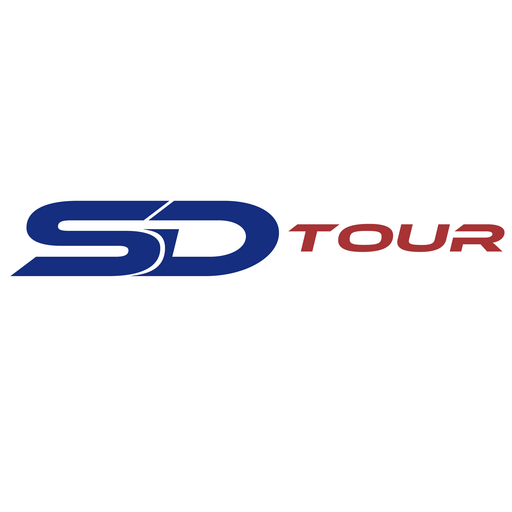
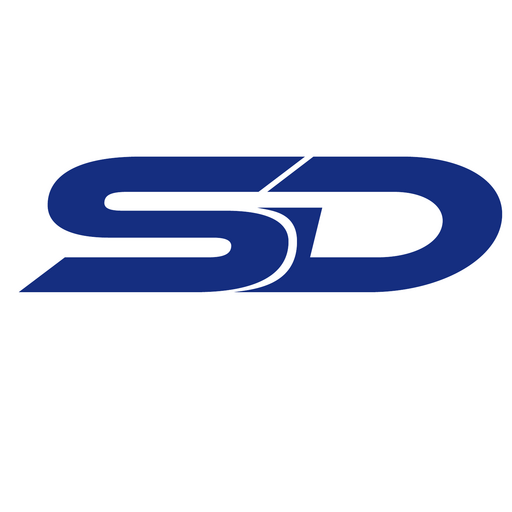
Add files via upload

Changed region(s): [[0.0312, 0.2812, 1.0, 0.5938]]

diff --git a/app/app/api/fuel-requests/route.ts b/app/app/api/fuel-requests/route.ts
@@ -7,6 +7,6 @@ const today=()=>{const parts=new Intl.DateTimeFormat('pt-BR',{timeZone:'America/
 async function notify(userIds:number[],title:string,message:string,href:string){const ids=[...new Set(userIds)].filter(Number.isSafeInteger);if(ids.length)await env.DB!.batch(ids.map(userId=>env.DB!.prepare('INSERT INTO app_notifications (user_id,title,message,href,created_at) VALUES (?,?,?,?,?)').bind(userId,title,message,href,new Date().toISOString())))}
 async function ensureAuditNames(){const columns=await env.DB!.prepare('PRAGMA table_info(fuel_requests)').all<{name:string}>();if(!columns.results.some(column=>column.name==='requested_by_name'))await env.DB!.prepare('ALTER TABLE fuel_requests ADD COLUMN requested_by_name text').run();if(!columns.results.some(column=>column.name==='authorized_by_name'))await env.DB!.prepare('ALTER TABLE fuel_requests ADD COLUMN authorized_by_name text').run();}
 
-export async function POST(req:Request){const access=await requireRole(req,'solicitante');if(!access.user)return Response.json({error:access.error},{status:403});try{await ensureAuditNames();const {requests}=await req.json() as {requests?:Item[]};if(!Array.isArray(requests)||requests.length===0)return Response.json({error:'Selecione ao menos uma viagem.'},{status:400});for(const item of requests)if(!Number.isSafeInteger(item.tripId)||!Number.isFinite(item.liters)||item.liters<=0||!Number.isSafeInteger(item.routeKm)||item.routeKm<0||!paymentOk(item.paymentStatus)||!Number.isSafeInteger(item.outstandingCents)||item.outstandingCents<0||(item.paymentStatus!=='total'&&item.outstandingCents<=0))return Response.json({error:'Confira litros, KM e pagamento de cada viagem.'},{status:400});const now=new Date().toISOString(),created:number[]=[];for(const item of requests){const trip=await env.DB!.prepare('SELECT departure_date AS departureDate FROM trips WHERE id=?').bind(item.tripId).first<{departureDate:string}>();if(!trip||trip.departureDate<=today())return Response.json({error:'Não é possível solicitar autorização para uma viagem cuja saída já ocorreu.'},{status:409});const existing=await env.DB!.prepare("SELECT id FROM fuel_requests WHERE trip_id=? AND status='pending' LIMIT 1").bind(item.tripId).first();if(existing)return Response.json({error:'Esta viagem já possui um pedido pendente de autorização.'},{status:409});const row=await env.DB!.prepare("INSERT INTO fuel_requests (trip_id,requested_by,requested_by_name,liters,route_km,payment_status,outstanding_cents,status,created_at) VALUES (?,?,?,?,?,?,?,'pending',?) RETURNING id").bind(item.tripId,access.user.bootstrap?null:access.user.id,access.user.name,item.liters,item.routeKm,item.paymentStatus,item.outstandingCents,now).first<{id:number}>();if(row)created.push(row.id);const associated=await env.DB!.prepare('SELECT user_id AS id FROM trip_users WHERE trip_id=?').bind(item.tripId).all<{id:number}>();const management=await env.DB!.prepare("SELECT id FROM app_users WHERE active=1 AND group_name='gerencia'").all<{id:number}>();const authorizers=await env.DB!.prepare("SELECT id FROM app_users WHERE active=1 AND (roles LIKE '%\"autorizador\"%' OR roles LIKE '%\"admin\"%')").all<{id:number}>();await notify([...associated.results.map(x=>x.id),...management.results.map(x=>x.id),...authorizers.results.map(x=>x.id)],'Novo pedido de abastecimento',`Pedido feito por ${access.user.name} e pendente de autorização.`,`/autorizacoes?pedido=${row?.id}`)}return Response.json({ids:created,requestedBy:access.user.name})}catch{return Response.json({error:'Não foi possível criar o pedido de abastecimento.'},{status:503})}}
+export async function POST(req:Request){const access=await requireRole(req,'solicitante');if(!access.user)return Response.json({error:access.error},{status:403});try{await ensureAuditNames();const {requests}=await req.json() as {requests?:Item[]};if(!Array.isArray(requests)||requests.length===0)return Response.json({error:'Selecione ao menos uma viagem.'},{status:400});for(const item of requests)if(!Number.isSafeInteger(item.tripId)||!Number.isFinite(item.liters)||item.liters<=0||!Number.isSafeInteger(item.routeKm)||item.routeKm<0||!paymentOk(item.paymentStatus)||!Number.isSafeInteger(item.outstandingCents)||item.outstandingCents<0||(item.paymentStatus!=='total'&&item.outstandingCents<=0))return Response.json({error:'Confira litros, KM e pagamento de cada viagem.'},{status:400});const now=new Date().toISOString(),created:number[]=[];for(const item of requests){const trip=await env.DB!.prepare('SELECT departure_date AS departureDate FROM trips WHERE id=?').bind(item.tripId).first<{departureDate:string}>();if(!trip||trip.departureDate<today())return Response.json({error:'Não é possível solicitar autorização para uma viagem cuja saída já ocorreu.'},{status:409});const existing=await env.DB!.prepare("SELECT id FROM fuel_requests WHERE trip_id=? AND status='pending' LIMIT 1").bind(item.tripId).first();if(existing)return Response.json({error:'Esta viagem já possui um pedido pendente de autorização.'},{status:409});const row=await env.DB!.prepare("INSERT INTO fuel_requests (trip_id,requested_by,requested_by_name,liters,route_km,payment_status,outstanding_cents,status,created_at) VALUES (?,?,?,?,?,?,?,'pending',?) RETURNING id").bind(item.tripId,access.user.bootstrap?null:access.user.id,access.user.name,item.liters,item.routeKm,item.paymentStatus,item.outstandingCents,now).first<{id:number}>();if(row)created.push(row.id);const associated=await env.DB!.prepare('SELECT user_id AS id FROM trip_users WHERE trip_id=?').bind(item.tripId).all<{id:number}>();const management=await env.DB!.prepare("SELECT id FROM app_users WHERE active=1 AND group_name='gerencia'").all<{id:number}>();const authorizers=await env.DB!.prepare("SELECT id FROM app_users WHERE active=1 AND (roles LIKE '%\"autorizador\"%' OR roles LIKE '%\"admin\"%')").all<{id:number}>();await notify([...associated.results.map(x=>x.id),...management.results.map(x=>x.id),...authorizers.results.map(x=>x.id)],'Novo pedido de abastecimento',`Pedido feito por ${access.user.name} e pendente de autorização.`,`/autorizacoes?pedido=${row?.id}`)}return Response.json({ids:created,requestedBy:access.user.name})}catch{return Response.json({error:'Não foi possível criar o pedido de abastecimento.'},{status:503})}}
 
-export async function GET(req:Request){const access=await requireRole(req,'solicitante','autorizador','avisado');if(!access.user)return Response.json({error:access.error},{status:403});await ensureAuditNames();const params=new URL(req.url).searchParams,requestedStatus=params.get('status'),status=requestedStatus==='pending'||requestedStatus==='authorized'?requestedStatus:null,requestId=Number(params.get('pedido')),byId=Number.isSafeInteger(requestId)&&requestId>0;const admin=access.user.roles.includes('admin'),authorizer=access.user.roles.includes('autorizador'),management=access.user.groupName==='gerencia',userId=access.user.id;let where=' WHERE COALESCE(t.departure_date,t.travel_date)>?',binds:unknown[]=[today()];if(byId){where+=' AND f.id=?';binds.push(requestId)}else if(status){where+=' AND f.status=?';binds.push(status)}if(!admin&&!authorizer&&!management){where+=" AND EXISTS (SELECT 1 FROM trip_users tu WHERE tu.trip_id=f.trip_id AND tu.user_id=?)";binds.push(userId)}const q=`SELECT f.id,f.trip_id AS tripId,f.liters,f.route_km AS routeKm,f.payment_status AS paymentStatus,f.outstanding_cents AS outstandingCents,f.status,f.created_at AS createdAt,f.authorized_at AS authorizedAt,v.label AS vehicleLabel,t.route,t.departure_date AS departureDate,t.arrival_date AS arrivalDate,COALESCE(t.total_value_cents,0) AS totalValueCents,COALESCE(f.requested_by_name,u.name,'Não informado') AS requestedBy,COALESCE(f.authorized_by_name,a.name,CASE WHEN f.status='authorized' THEN 'George Mendonça' END,'Não informado') AS authorizedBy FROM fuel_requests f JOIN trips t ON t.id=f.trip_id JOIN vehicles v ON v.id=t.vehicle_id LEFT JOIN app_users u ON u.id=f.requested_by LEFT JOIN app_users a ON a.id=f.authorized_by${where} ORDER BY CASE f.status WHEN 'pending' THEN 0 ELSE 1 END,f.created_at DESC`;const rows=await env.DB!.prepare(q).bind(...binds).all();return Response.json({requests:(rows.results||[]).map((item:any)=>admin?item:{...item,totalValueCents:null,paymentStatus:null,outstandingCents:null}),canViewFinancial:admin})}
+export async function GET(req:Request){const access=await requireRole(req,'solicitante','autorizador','avisado');if(!access.user)return Response.json({error:access.error},{status:403});await ensureAuditNames();const params=new URL(req.url).searchParams,requestedStatus=params.get('status'),status=requestedStatus==='pending'||requestedStatus==='authorized'?requestedStatus:null,requestId=Number(params.get('pedido')),byId=Number.isSafeInteger(requestId)&&requestId>0;const admin=access.user.roles.includes('admin'),authorizer=access.user.roles.includes('autorizador'),management=access.user.groupName==='gerencia',userId=access.user.id;let where=' WHERE COALESCE(t.departure_date,t.travel_date)>=?',binds:unknown[]=[today()];if(byId){where+=' AND f.id=?';binds.push(requestId)}else if(status){where+=' AND f.status=?';binds.push(status)}if(!admin&&!authorizer&&!management){where+=" AND EXISTS (SELECT 1 FROM trip_users tu WHERE tu.trip_id=f.trip_id AND tu.user_id=?)";binds.push(userId)}const q=`SELECT f.id,f.trip_id AS tripId,f.liters,f.route_km AS routeKm,f.payment_status AS paymentStatus,f.outstanding_cents AS outstandingCents,f.status,f.created_at AS createdAt,f.authorized_at AS authorizedAt,v.label AS vehicleLabel,t.route,t.departure_date AS departureDate,t.arrival_date AS arrivalDate,COALESCE(t.total_value_cents,0) AS totalValueCents,COALESCE(f.requested_by_name,u.name,'Não informado') AS requestedBy,COALESCE(f.authorized_by_name,a.name,CASE WHEN f.status='authorized' THEN 'George Mendonça' END,'Não informado') AS authorizedBy FROM fuel_requests f JOIN trips t ON t.id=f.trip_id JOIN vehicles v ON v.id=t.vehicle_id LEFT JOIN app_users u ON u.id=f.requested_by LEFT JOIN app_users a ON a.id=f.authorized_by${where} ORDER BY CASE f.status WHEN 'pending' THEN 0 ELSE 1 END,f.created_at DESC`;const rows=await env.DB!.prepare(q).bind(...binds).all();return Response.json({requests:(rows.results||[]).map((item:any)=>admin?item:{...item,totalValueCents:null,paymentStatus:null,outstandingCents:null}),canViewFinancial:admin})}

diff --git a/app/app/avisos/page.tsx b/app/app/avisos/page.tsx
@@ -6,4 +6,4 @@ type Item={notice:Notice;request?:Request};
 const requestId=(href:string)=>{const value=new URLSearchParams(href.split('?')[1]||'').get('pedido');return value?Number(value):NaN};
 const today=()=>{const parts=new Intl.DateTimeFormat('pt-BR',{timeZone:'America/Bahia',year:'numeric',month:'2-digit',day:'2-digit'}).formatToParts(new Date());const value=(type:string)=>parts.find(part=>part.type===type)?.value||'';return `${value('year')}-${value('month')}-${value('day')}`};
 const when=(value:string)=>new Intl.DateTimeFormat('pt-BR',{dateStyle:'short',timeStyle:'short',timeZone:'America/Bahia'}).format(new Date(value));
-export default function Avisos(){const [items,setItems]=useState<Item[]>([]),[message,setMessage]=useState('Carregando avisos...');useEffect(()=>{void Promise.all([fetch('/api/notifications',{cache:'no-store'}).then(r=>r.json()),fetch('/api/fuel-requests',{cache:'no-store'}).then(r=>r.json())]).then(([notices,requests])=>{const byId=new Map<number,Request>((requests.requests||[]).map((request:Request)=>[request.id,request])),latest=new Map<string,Item>();for(const notice of notices.notifications||[]){const id=requestId(notice.href),request=byId.get(id);if(Number.isInteger(id)&&id>0&&!request)continue;if(request&&request.departureDate<=today())continue;const key=request?`request:${request.id}`:`notice:${notice.id}`;if(!latest.has(key))latest.set(key,{notice,request})}setItems([...latest.values()]);setMessage('')}).catch(()=>setMessage('Não foi possível carregar os avisos.'))},[]);async function open(item:Item){await fetch('/api/notifications',{method:'PUT',headers:{'Content-Type':'application/json'},body:JSON.stringify({id:item.notice.id})});window.location.assign(item.notice.href)}return <main className="min-h-screen bg-slate-50 p-5"><div className="mx-auto max-w-xl"><button onClick={()=>window.location.assign('/')} className="mb-5 h-12 rounded-xl border px-5 text-lg font-bold">Página inicial</button><section className="rounded-3xl bg-white p-6 shadow"><h1 className="text-3xl font-bold">Meus avisos</h1><p className="mt-2 text-lg text-slate-600">Somente viagens futuras com pedido de abastecimento aparecem aqui.</p>{!message&&items.length===0?<p className="mt-5 rounded-xl bg-slate-50 p-4 text-lg">Nenhum aviso de viagem futura no momento.</p>:<div className="mt-5 space-y-4">{items.map(({notice,request})=>{const pending=request?.status==='pending',authorized=request?.status==='authorized';return <button key={request?`request-${request.id}`:notice.id} onClick={()=>void open({notice,request})} className={`w-full overflow-hidden rounded-2xl border-2 text-left shadow-sm transition active:scale-[0.99] ${pending?'border-red-300 bg-white':authorized?'border-green-700 bg-[#178045] text-white':'border-[#096a9b] bg-white'}`}><div className="p-4"><div className="flex items-start gap-3">{authorized&&<span className="grid h-14 w-14 shrink-0 place-items-center rounded-full bg-white text-4xl font-black text-[#178045]">✓</span>}<div className="min-w-0"><p className="text-xl font-extrabold">{authorized?'Abastecimento liberado':notice.title}</p>{request?<><p className="mt-2 text-lg font-bold">{request.vehicleLabel} · {request.route}</p><p className="mt-1 text-base">Solicitado por {request.requestedBy} em {when(request.createdAt)}</p>{authorized&&<p className="mt-1 text-base">Autorizado por {request.authorizedBy} em {request.authorizedAt?when(request.authorizedAt):'horário não informado'}</p>}</>:<p className="mt-1 text-lg">{notice.message}</p>}</div></div></div>{pending&&<div className="bg-[#b42318] px-4 py-4 text-white"><p className="text-xl font-extrabold">PENDENTE DE AUTORIZAÇÃO</p><p className="mt-1 text-base font-semibold">Aguardando autorização. Toque para acompanhar.</p></div>}{authorized&&<div className="border-t border-white/30 bg-[#178045] px-4 py-4 text-white"><p className="text-xl font-extrabold">✓ ABASTECIMENTO LIBERADO</p><p className="mt-1 text-base font-semibold">A autorização foi concluída.</p></div>}{!request&&<p className="border-t px-4 py-3 text-sm text-slate-600">{when(notice.createdAt)}</p>}</button>})}</div>}</section>{message&&<p role="status" className="mt-5 rounded-xl bg-sky-50 p-4 text-lg">{message}</p>}</div></main>}
+export default function Avisos(){const [items,setItems]=useState<Item[]>([]),[message,setMessage]=useState('Carregando avisos...');useEffect(()=>{void Promise.all([fetch('/api/notifications',{cache:'no-store'}).then(r=>r.json()),fetch('/api/fuel-requests',{cache:'no-store'}).then(r=>r.json())]).then(([notices,requests])=>{const byId=new Map<number,Request>((requests.requests||[]).map((request:Request)=>[request.id,request])),latest=new Map<string,Item>();for(const notice of notices.notifications||[]){const id=requestId(notice.href),request=byId.get(id);if(Number.isInteger(id)&&id>0&&!request)continue;if(request&&request.departureDate<today())continue;const key=request?`request:${request.id}`:`notice:${notice.id}`;if(!latest.has(key))latest.set(key,{notice,request})}setItems([...latest.values()]);setMessage('')}).catch(()=>setMessage('Não foi possível carregar os avisos.'))},[]);async function open(item:Item){await fetch('/api/notifications',{method:'PUT',headers:{'Content-Type':'application/json'},body:JSON.stringify({id:item.notice.id})});window.location.assign(item.notice.href)}return <main className="min-h-screen bg-slate-50 p-5"><div className="mx-auto max-w-xl"><button onClick={()=>window.location.assign('/')} className="mb-5 h-12 rounded-xl border px-5 text-lg font-bold">Página inicial</button><section className="rounded-3xl bg-white p-6 shadow"><h1 className="text-3xl font-bold">Meus avisos</h1><p className="mt-2 text-lg text-slate-600">Viagens cuja saída ainda não ocorreu aparecem aqui.</p>{!message&&items.length===0?<p className="mt-5 rounded-xl bg-slate-50 p-4 text-lg">Nenhum aviso de viagem válida no momento.</p>:<div className="mt-5 space-y-4">{items.map(({notice,request})=>{const pending=request?.status==='pending',authorized=request?.status==='authorized';return <button key={request?`request-${request.id}`:notice.id} onClick={()=>void open({notice,request})} className={`w-full overflow-hidden rounded-2xl border-2 text-left shadow-sm transition active:scale-[0.99] ${pending?'border-red-300 bg-white':authorized?'border-green-700 bg-[#178045] text-white':'border-[#096a9b] bg-white'}`}><div className="p-4"><div className="flex items-start gap-3">{authorized&&<span className="grid h-14 w-14 shrink-0 place-items-center rounded-full bg-white text-4xl font-black text-[#178045]">✓</span>}<div className="min-w-0"><p className="text-xl font-extrabold">{authorized?'Abastecimento liberado':notice.title}</p>{request?<><p className="mt-2 text-lg font-bold">{request.vehicleLabel} · {request.route}</p><p className="mt-1 text-base">Solicitado por {request.requestedBy} em {when(request.createdAt)}</p>{authorized&&<p className="mt-1 text-base">Autorizado por {request.authorizedBy} em {request.authorizedAt?when(request.authorizedAt):'horário não informado'}</p>}</>:<p className="mt-1 text-lg">{notice.message}</p>}</div></div></div>{pending&&<div className="bg-[#b42318] px-4 py-4 text-white"><p className="text-xl font-extrabold">PENDENTE DE AUTORIZAÇÃO</p><p className="mt-1 text-base font-semibold">Aguardando autorização. Toque para acompanhar.</p></div>}{authorized&&<div className="border-t border-white/30 bg-[#178045] px-4 py-4 text-white"><p className="text-xl font-extrabold">✓ ABASTECIMENTO LIBERADO</p><p className="mt-1 text-base font-semibold">A autorização foi concluída.</p></div>}{!request&&<p className="border-t px-4 py-3 text-sm text-slate-600">{when(notice.createdAt)}</p>}</button>})}</div>}</section>{message&&<p role="status" className="mt-5 rounded-xl bg-sky-50 p-4 text-lg">{message}</p>}</div></main>}

diff --git a/app/app/page.tsx b/app/app/page.tsx
@@ -44,7 +44,7 @@ export default function Home({launch=false}:{launch?:boolean}){
  async function turnOff(){await fetch('/api/admin-session',{method:'DELETE'});setActiveUser(null);setLoginPassword('');setPendingAlert(null)}
  if(!sessionChecked)return <main className="grid min-h-screen place-items-center bg-[#f3f6f9] text-lg">Abrindo Controle de Abastecimento...</main>;
  if(!activeUser)return <main className="grid min-h-screen place-items-center bg-[#f3f6f9] p-5"><section className="w-full max-w-md rounded-3xl bg-white p-7 shadow"><div className="flex items-center gap-3"><img src="/icon.png" alt="SD Tour" className="h-16 w-16 rounded-2xl"/><div><p className="font-bold text-[#b3262b]">SD TOUR</p><h1 className="text-3xl font-extrabold">Acessar app</h1></div></div><p className="mt-4 text-lg text-slate-600">Informe sua senha para continuar.</p><form onSubmit={appLogin} className="mt-6 space-y-4"><input autoFocus autoCapitalize="none" value={loginUser} onChange={event=>setLoginUser(event.target.value)} className="h-16 w-full rounded-xl border p-4 text-xl" placeholder="Usuário"/><input type="password" value={loginPassword} onChange={event=>setLoginPassword(event.target.value)} className="h-16 w-full rounded-xl border p-4 text-xl" placeholder="Senha"/><Button className="h-14 w-full bg-[#096a9b] text-xl font-bold text-white">Entrar</Button></form>{loginError&&<p role="status" className="mt-4 rounded-xl bg-red-50 p-3 text-lg text-red-800">{loginError}</p>}</section></main>;
- if(!launch)return <main className="min-h-screen bg-[#f3f6f9] px-4 py-6 sm:py-10"><div className="mx-auto max-w-xl"><header className="rounded-3xl bg-[#b3262b] p-6 text-white shadow"><div className="flex items-center gap-3"><img src="/icon.png" alt="SD Tour" className="h-16 w-16 rounded-2xl bg-white p-1"/><div><p className="text-base font-bold uppercase tracking-[.12em]">SD Tour</p><h1 className="text-3xl font-extrabold">Olá, {activeUser.name}</h1></div></div><p className="mt-4 text-lg font-medium text-white/90">Controle de abastecimento</p></header>{pendingAlert&&<button type="button" onClick={()=>window.location.assign(pendingAlert.href)} className={`mt-5 w-full rounded-2xl p-5 text-left shadow-lg ${pendingAlert.authorizer?'bg-[#b3262b] text-white':'border-2 border-red-300 bg-red-50 text-[#7f1d1d]'}`}><p className="text-xl font-extrabold">{pendingAlert.authorizer?'PEDIDO PENDENTE DE AUTORIZAÇÃO':'AVISO DE ABASTECIMENTO PENDENTE'}</p><p className="mt-1 text-lg font-bold">{pendingAlert.count} pedido(s). Toque para acompanhar.</p></button>}<Button type="button" onClick={()=>window.location.assign('/lancar-abastecimento')} className="mt-7 h-20 w-full bg-[#096a9b] text-2xl font-extrabold text-white shadow-lg">⛽ LANÇAR ABASTECIMENTO</Button><div className="mt-5 grid grid-cols-2 gap-3"><Button type="button" onClick={()=>window.location.assign('/meus-abastecimentos')} variant="outline" className="min-h-20 h-auto border-[#096a9b] px-3 py-3 text-base font-bold text-[#102b43] sm:text-lg">Meus abastecimentos</Button><Button type="button" onClick={()=>window.location.assign('/avisos')} variant="outline" className="min-h-20 h-auto border-[#096a9b] px-3 py-3 text-base font-bold text-[#102b43] sm:text-lg">Meus avisos</Button></div><div className="mt-5 grid gap-3">{activeUser.roles.includes('admin')&&<a href="/admin?force=1" className="min-h-14 rounded-xl border-2 border-[#096a9b] bg-white px-4 py-3 text-center text-lg font-bold text-[#096a9b]">Área Adm</a>}<Button type="button" onClick={()=>void turnOff()} variant="outline" className="min-h-14 border-slate-500 text-lg font-bold text-slate-700">Desligar</Button></div></div></main>;
+ if(!launch)return <main className="min-h-screen bg-[#f3f6f9] px-4 py-6 sm:py-10"><div className="mx-auto max-w-xl"><header className="rounded-3xl bg-[#b3262b] p-6 text-white shadow"><div className="flex items-center gap-3"><img src="/icon.png" alt="SD Tour" className="h-16 w-16 rounded-2xl bg-white p-1"/><div><p className="text-base font-bold uppercase tracking-[.12em]">SD Tour</p><h1 className="text-3xl font-extrabold">Olá, {activeUser.name}</h1></div></div><p className="mt-4 text-lg font-medium text-white/90">Controle de abastecimento</p></header>{pendingAlert&&<button type="button" onClick={()=>window.location.assign(pendingAlert.href)} className={`mt-5 w-full rounded-2xl p-5 text-left shadow-lg ${pendingAlert.authorizer?'bg-[#b3262b] text-white':'border-2 border-red-300 bg-red-50 text-[#7f1d1d]'}`}><p className="text-xl font-extrabold">{pendingAlert.authorizer?'PEDIDO PENDENTE DE AUTORIZAÇÃO':'AVISO DE ABASTECIMENTO PENDENTE'}</p><p className="mt-1 text-lg font-bold">{pendingAlert.count} pedido(s). Toque para acompanhar.</p></button>}<Button type="button" onClick={()=>window.location.assign('/lancar-abastecimento')} className="mt-7 h-20 w-full bg-[#096a9b] text-2xl font-extrabold text-white shadow-lg">⛽ LANÇAR ABASTECIMENTO</Button><div className="mt-5 grid grid-cols-2 gap-3"><Button type="button" onClick={()=>window.location.assign('/meus-abastecimentos')} variant="outline" className="min-h-20 h-auto border-[#096a9b] px-3 py-3 text-base font-bold text-[#102b43] sm:text-lg">Meus abastecimentos</Button><Button type="button" onClick={()=>window.location.assign('/avisos')} className="min-h-20 h-auto bg-green-600 px-3 py-3 text-base font-bold text-white hover:bg-green-700 sm:text-lg">Visualizar liberações</Button></div><div className="mt-5 grid gap-3">{activeUser.roles.includes('admin')&&<a href="/admin?force=1" className="min-h-14 rounded-xl border-2 border-[#096a9b] bg-white px-4 py-3 text-center text-lg font-bold text-[#096a9b]">Área Adm</a>}<Button type="button" onClick={()=>void turnOff()} variant="outline" className="min-h-14 border-slate-500 text-lg font-bold text-slate-700">Desligar</Button></div></div></main>;
  if(saved)return <main className="grid min-h-screen place-items-center bg-[#f3f6f9] px-5 py-10"><section className="w-full max-w-xl rounded-3xl border border-[#bfe0cc] bg-white p-8 text-center shadow-[0_12px_35px_rgba(22,64,91,.08)] sm:p-12"><p className="text-5xl text-[#178045]">✓</p><h1 className="mt-5 text-4xl font-extrabold leading-tight text-[#178045] sm:text-5xl">{savedOffline?'Abastecimento salvo no aparelho':completion==='editado'?'Edição concluída':'Abastecimento lançado'}</h1><p className="mt-4 text-xl text-[#526979]">{savedOffline?'Sem internet no momento. O lançamento será enviado ao banco quando o app for aberto com conexão.':completion==='editado'?'As alterações foram salvas com sucesso.':'O registro foi salvo com sucesso.'}</p><div className="mt-10 grid gap-4"><Button type="button" onClick={()=>{setSaved(false);void showLast30()}} className="h-16 bg-[#178045] text-xl font-bold text-white">Listar meus abastecimentos</Button><Button type="button" onClick={leave} variant="outline" className="h-16 border-[#526979] text-xl font-bold text-[#102b43]">Sair</Button></div></section></main>;
  const heading=['Qual é o veículo?','Quem abasteceu?','Qual é a quilometragem do carro?','O que foi comprado?','Qual foi a quantidade?','Qual foi o valor?','Confirme o abastecimento'][step-1];
  const showBack=step!==1&&step!==7; const showNext=step===1||step===2||step===3||step===4||step===5;

diff --git a/app/app/solicitar-abastecimento/page.tsx b/app/app/solicitar-abastecimento/page.tsx
@@ -2,4 +2,5 @@
 import {useEffect,useState} from 'react';
 type Trip={id:number;vehicleLabel:string;departureDate:string;arrivalDate:string;route:string};
 const formatDate=(date:string)=>date.split('-').reverse().join('/');
-export default function SolicitarAbastecimento(){const [trips,setTrips]=useState<Trip[]>([]),[message,setMessage]=useState('Carregando viagens...');useEffect(()=>{void (async()=>{try{const response=await fetch('/api/trips?available=1',{cache:'no-store'}),data:any=await response.json();if(!response.ok){setMessage(data.error||'Não foi possível carregar as viagens.');return}const today=new Date().toISOString().slice(0,10);setTrips((data.trips||[]).filter((trip:Trip)=>(trip.arrivalDate||trip.departureDate)>=today));setMessage('')}catch{setMessage('Não foi possível carregar as viagens. Atualize a página e tente novamente.')}})()},[]);return <main className="min-h-screen bg-slate-50 p-5"><div className="mx-auto max-w-xl"><button type="button" onClick={()=>window.location.assign('/admin')} className="mb-5 h-14 w-full rounded-xl border-2 border-slate-500 px-3 text-lg font-bold text-slate-700">Página inicial do Adm</button><section className="rounded-3xl border-2 border-[#096a9b] bg-white p-6 shadow"><h1 className="text-3xl font-bold">Solicitar abastecimento</h1><p className="mt-3 text-lg text-slate-600">Marque uma ou várias viagens que ainda não possuem pedido de autorização.</p><form action="/solicitar-abastecimento/detalhes" method="get" className="mt-5 space-y-3">{!message&&trips.length===0?<p className="rounded-xl bg-slate-50 p-4 text-lg">Não há viagens disponíveis. As já solicitadas ou autorizadas ficam no histórico.</p>:trips.map(trip=><label key={trip.id} className="flex cursor-pointer items-start gap-4 rounded-2xl border-2 border-slate-200 bg-white p-4 text-lg"><input name="trip" value={trip.id} type="checkbox" className="mt-1 h-6 w-6 shrink-0 accent-[#178045]"/><span><strong>{trip.vehicleLabel}</strong><br/>{trip.route}<br/><small>{formatDate(trip.departureDate)} a {formatDate(trip.arrivalDate)}</small></span></label>)}<button type="submit" className="mt-3 min-h-14 h-auto w-full rounded-xl bg-[#178045] px-4 py-2 text-lg font-bold leading-tight text-white sm:text-xl">OK — informar litros e KM</button></form></section>{message&&<p role="status" className="mt-5 rounded-xl bg-sky-50 p-4 text-lg">{message}</p>}</div></main>}
+const today=()=>{const parts=new Intl.DateTimeFormat('pt-BR',{timeZone:'America/Bahia',year:'numeric',month:'2-digit',day:'2-digit'}).formatToParts(new Date());const value=(type:string)=>parts.find(part=>part.type===type)?.value||'';return `${value('year')}-${value('month')}-${value('day')}`};
+export default function SolicitarAbastecimento(){const [trips,setTrips]=useState<Trip[]>([]),[message,setMessage]=useState('Carregando viagens...');useEffect(()=>{void (async()=>{try{const response=await fetch('/api/trips?available=1',{cache:'no-store'}),data:any=await response.json();if(!response.ok){setMessage(data.error||'Não foi possível carregar as viagens.');return}setTrips((data.trips||[]).filter((trip:Trip)=>trip.departureDate>=today()));setMessage('')}catch{setMessage('Não foi possível carregar as viagens. Atualize a página e tente novamente.')}})()},[]);return <main className="min-h-screen bg-slate-50 p-5"><div className="mx-auto max-w-xl"><button type="button" onClick={()=>window.location.assign('/admin')} className="mb-5 h-14 w-full rounded-xl border-2 border-slate-500 px-3 text-lg font-bold text-slate-700">Página inicial do Adm</button><section className="rounded-3xl border-2 border-[#096a9b] bg-white p-6 shadow"><h1 className="text-3xl font-bold">Solicitar abastecimento</h1><p className="mt-3 text-lg text-slate-600">Marque uma ou várias viagens cuja saída ainda não ocorreu e que não possuem pedido de autorização.</p><form action="/solicitar-abastecimento/detalhes" method="get" className="mt-5 space-y-3">{!message&&trips.length===0?<p className="rounded-xl bg-slate-50 p-4 text-lg">Não há viagens disponíveis. As já solicitadas, autorizadas ou com saída anterior a hoje ficam no histórico.</p>:trips.map(trip=><label key={trip.id} className="flex cursor-pointer items-start gap-4 rounded-2xl border-2 border-slate-200 bg-white p-4 text-lg"><input name="trip" value={trip.id} type="checkbox" className="mt-1 h-6 w-6 shrink-0 accent-[#178045]"/><span><strong>{trip.vehicleLabel}</strong><br/>{trip.route}<br/><small>{formatDate(trip.departureDate)} a {formatDate(trip.arrivalDate)}</small></span></label>)}<button type="submit" className="mt-3 min-h-14 h-auto w-full rounded-xl bg-[#178045] px-4 py-2 text-lg font-bold leading-tight text-white sm:text-xl">OK — informar litros e KM</button></form></section>{message&&<p role="status" className="mt-5 rounded-xl bg-sky-50 p-4 text-lg">{message}</p>}</div></main>}

diff --git a/app/app/api/fuel-requests/[id]/authorize/route.ts b/app/app/api/fuel-requests/[id]/authorize/route.ts
@@ -2,4 +2,4 @@ import {env} from 'cloudflare:workers';
 import {requireRole} from '../../../admin-auth';
 const today=()=>{const parts=new Intl.DateTimeFormat('pt-BR',{timeZone:'America/Bahia',year:'numeric',month:'2-digit',day:'2-digit'}).formatToParts(new Date());const part=(name:string)=>parts.find(x=>x.type===name)?.value||'';return `${part('year')}-${part('month')}-${part('day')}`};
 async function ensureAuditName(){const columns=await env.DB!.prepare('PRAGMA table_info(fuel_requests)').all<{name:string}>();if(!columns.results.some(column=>column.name==='authorized_by_name'))await env.DB!.prepare('ALTER TABLE fuel_requests ADD COLUMN authorized_by_name text').run();}
-export async function POST(req:Request,{params}:{params:Promise<{id:string}>}){const access=await requireRole(req,'autorizador');if(!access.user)return Response.json({error:access.error},{status:403});try{await ensureAuditName();const id=Number((await params).id);if(!Number.isSafeInteger(id))return Response.json({error:'Pedido inválido.'},{status:400});const item=await env.DB!.prepare("SELECT f.trip_id AS tripId,t.route,v.label AS vehicleLabel FROM fuel_requests f JOIN trips t ON t.id=f.trip_id JOIN vehicles v ON v.id=t.vehicle_id WHERE f.id=? AND f.status='pending' AND COALESCE(t.departure_date,t.travel_date)>?").bind(id,today()).first<{tripId:number;route:string;vehicleLabel:string}>();if(!item)return Response.json({error:'Este pedido já venceu, foi tratado ou não existe.'},{status:409});const now=new Date().toISOString(),when=new Intl.DateTimeFormat('pt-BR',{dateStyle:'short',timeStyle:'short',timeZone:'America/Bahia'}).format(new Date(now));await env.DB!.prepare("UPDATE fuel_requests SET status='authorized',authorized_by=?,authorized_by_name=?,authorized_at=? WHERE id=? AND status='pending'").bind(access.user.bootstrap?null:access.user.id,access.user.name,now,id).run();const viewers=await env.DB!.prepare('SELECT user_id AS id FROM trip_users WHERE trip_id=?').bind(item.tripId).all<{id:number}>();const management=await env.DB!.prepare("SELECT id FROM app_users WHERE active=1 AND group_name='gerencia'").all<{id:number}>();const ids=[...new Set([...viewers.results.map(x=>x.id),...management.results.map(x=>x.id)])];const message=`${item.vehicleLabel} — ${item.route}. Autorizado por ${access.user.name} em ${when}.`;if(ids.length)await env.DB!.batch(ids.map(userId=>env.DB!.prepare('INSERT INTO app_notifications (user_id,title,message,href,created_at) VALUES (?,?,?,?,?)').bind(userId,'Abastecimento autorizado',message,`/autorizacoes?pedido=${id}`,now)));return Response.json({authorized:true,authorizedBy:access.user.name,authorizedAt:now})}catch{return Response.json({error:'Não foi possível autorizar o pedido.'},{status:503})}}
+export async function POST(req:Request,{params}:{params:Promise<{id:string}>}){const access=await requireRole(req,'autorizador');if(!access.user)return Response.json({error:access.error},{status:403});try{await ensureAuditName();const id=Number((await params).id);if(!Number.isSafeInteger(id))return Response.json({error:'Pedido inválido.'},{status:400});const item=await env.DB!.prepare("SELECT f.trip_id AS tripId,t.route,v.label AS vehicleLabel FROM fuel_requests f JOIN trips t ON t.id=f.trip_id JOIN vehicles v ON v.id=t.vehicle_id WHERE f.id=? AND f.status='pending' AND COALESCE(t.departure_date,t.travel_date)>=?").bind(id,today()).first<{tripId:number;route:string;vehicleLabel:string}>();if(!item)return Response.json({error:'Este pedido já venceu, foi tratado ou não existe.'},{status:409});const now=new Date().toISOString(),when=new Intl.DateTimeFormat('pt-BR',{dateStyle:'short',timeStyle:'short',timeZone:'America/Bahia'}).format(new Date(now));await env.DB!.prepare("UPDATE fuel_requests SET status='authorized',authorized_by=?,authorized_by_name=?,authorized_at=? WHERE id=? AND status='pending'").bind(access.user.bootstrap?null:access.user.id,access.user.name,now,id).run();const viewers=await env.DB!.prepare('SELECT user_id AS id FROM trip_users WHERE trip_id=?').bind(item.tripId).all<{id:number}>();const management=await env.DB!.prepare("SELECT id FROM app_users WHERE active=1 AND group_name='gerencia'").all<{id:number}>();const ids=[...new Set([...viewers.results.map(x=>x.id),...management.results.map(x=>x.id)])];const message=`${item.vehicleLabel} — ${item.route}. Autorizado por ${access.user.name} em ${when}.`;if(ids.length)await env.DB!.batch(ids.map(userId=>env.DB!.prepare('INSERT INTO app_notifications (user_id,title,message,href,created_at) VALUES (?,?,?,?,?)').bind(userId,'Abastecimento autorizado',message,`/autorizacoes?pedido=${id}`,now)));return Response.json({authorized:true,authorizedBy:access.user.name,authorizedAt:now})}catch{return Response.json({error:'Não foi possível autorizar o pedido.'},{status:503})}}

diff --git a/app/app/api/fuel-request-trips/route.ts b/app/app/api/fuel-request-trips/route.ts
@@ -1,3 +1,4 @@
 import { env } from 'cloudflare:workers';
 import {isAdmin} from '../admin-auth';
-export async function GET(req:Request){if(!await isAdmin(req))return Response.json({error:'Acesso restrito.'},{status:403});try{const trips=await env.DB!.prepare("SELECT t.id,t.vehicle_id AS vehicleId,v.label AS vehicleLabel,COALESCE(t.departure_date,t.travel_date) AS departureDate,COALESCE(t.arrival_date,t.travel_date) AS arrivalDate,t.route FROM trips t JOIN vehicles v ON v.id=t.vehicle_id WHERE COALESCE(t.arrival_date,t.travel_date)>=date('now') ORDER BY departureDate ASC,t.id ASC").all();return Response.json({trips:trips.results})}catch{return Response.json({error:'Não foi possível carregar as viagens pendentes.'},{status:503})}}
+const today=()=>{const parts=new Intl.DateTimeFormat('pt-BR',{timeZone:'America/Bahia',year:'numeric',month:'2-digit',day:'2-digit'}).formatToParts(new Date());const part=(type:string)=>parts.find(item=>item.type===type)?.value||'';return `${part('year')}-${part('month')}-${part('day')}`};
+export async function GET(req:Request){if(!await isAdmin(req))return Response.json({error:'Acesso restrito.'},{status:403});try{const trips=await env.DB!.prepare("SELECT t.id,t.vehicle_id AS vehicleId,v.label AS vehicleLabel,COALESCE(t.departure_date,t.travel_date) AS departureDate,COALESCE(t.arrival_date,t.travel_date) AS arrivalDate,t.route FROM trips t JOIN vehicles v ON v.id=t.vehicle_id WHERE COALESCE(t.departure_date,t.travel_date)>=? ORDER BY departureDate ASC,t.id ASC").bind(today()).all();return Response.json({trips:trips.results})}catch{return Response.json({error:'Não foi possível carregar as viagens pendentes.'},{status:503})}}

diff --git a/app/app/layout.tsx b/app/app/layout.tsx
@@ -1,4 +1,4 @@
 import type { Metadata } from 'next';
 import './globals.css';
-export const metadata:Metadata={title:'Abastecimento | Controle de frota',description:'Registro de abastecimento da frota',icons:{icon:'/icon.png',apple:'/icon.png'}};
+export const metadata:Metadata={title:'Abastecimento | Controle de frota',description:'Registro de abastecimento da frota',icons:{icon:'/icon.png?v=sd-original',apple:'/icon.png?v=sd-original'}};
 export default function RootLayout({children}:{children:React.ReactNode}) { return <html lang="pt-BR"><body>{children}</body></html> }

diff --git a/app/app/manifest.ts b/app/app/manifest.ts
@@ -12,7 +12,7 @@ export default function manifest(): MetadataRoute.Manifest {
     background_color: '#ffffff',
     theme_color: '#b91c1c',
     icons: [
-      { src: '/icon.png', sizes: '1024x1024', type: 'image/png' },
+      { src: '/icon.png?v=sd-original', sizes: '1024x1024', type: 'image/png' },
     ],
   };
 }
